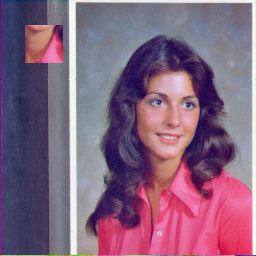
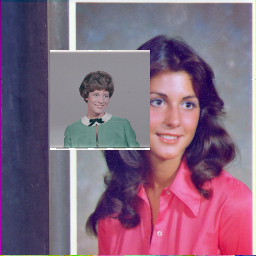
Political splicing issue fixed

Changed region(s): [[0.0938, 0.0938, 0.5938, 0.5938]]

diff --git a/attack_image.py b/attack_image.py
@@ -40,18 +40,32 @@ def attack_copy_move(image, src_x=None, src_y=None, w=None, h=None, dst_x=None, 
     attacked_image[dst_y:dst_y+h, dst_x:dst_x+w] = source_region
     
     return attacked_image, 'Copy-Move'
-
-def attack_political_splicing(image, face_image_path='politician_face.png', x=220, y=220, w=150, h=150):
-    """(Forgery Type: Splicing) Creates a false image by pasting a politician's face onto the target."""
+def attack_political_splicing(image, face_image_path='politician_face.tiff', x=50, y=50, w=100, h=100):
+    """(Forgery Type: Splicing) Pastes a face, ensuring it fits inside the image."""
     attacked_image = image.copy()
+    rows, cols, _ = attacked_image.shape
+    
     try:
+        # 1. Load the face
         face_image = cv2.imread(face_image_path)
         if face_image is None: raise FileNotFoundError
+
+        # 2. Safety Check: If the face is too big for the image, shrink the face
+        if w >= cols or h >= rows:
+            w = int(cols / 3)
+            h = int(rows / 3)
+
+        # 3. Safety Check: If coordinates go off the edge, shift them back
+        if x + w > cols: x = cols - w
+        if y + h > rows: y = rows - h
+
+        # 4. Perform the splice
         face_resized = cv2.resize(face_image, (w, h))
         attacked_image[y:y+h, x:x+w] = face_resized
         return attacked_image, 'Political Splicing'
+
     except FileNotFoundError:
-        print(f"  - ERROR: Splice image '{face_image_path}' not found. You must provide this image to use this attack.")
+        print(f"  - ERROR: Splice image '{face_image_path}' not found.")
         return None, None
 
 def attack_cropping(image, border=50):
@@ -84,7 +98,7 @@ def attack_salt_and_pepper(image, amount=0.05):
 # --- Main Interactive Script Logic ---
 if __name__ == "__main__":
     try:
-        source_image = cv2.imread('lena_watermarked_with_recovery_color.png')
+        source_image = cv2.imread('lena_watermarked_color.png')
         if source_image is None:
             raise FileNotFoundError("'lena_watermarked_color.png' not found.")
         
